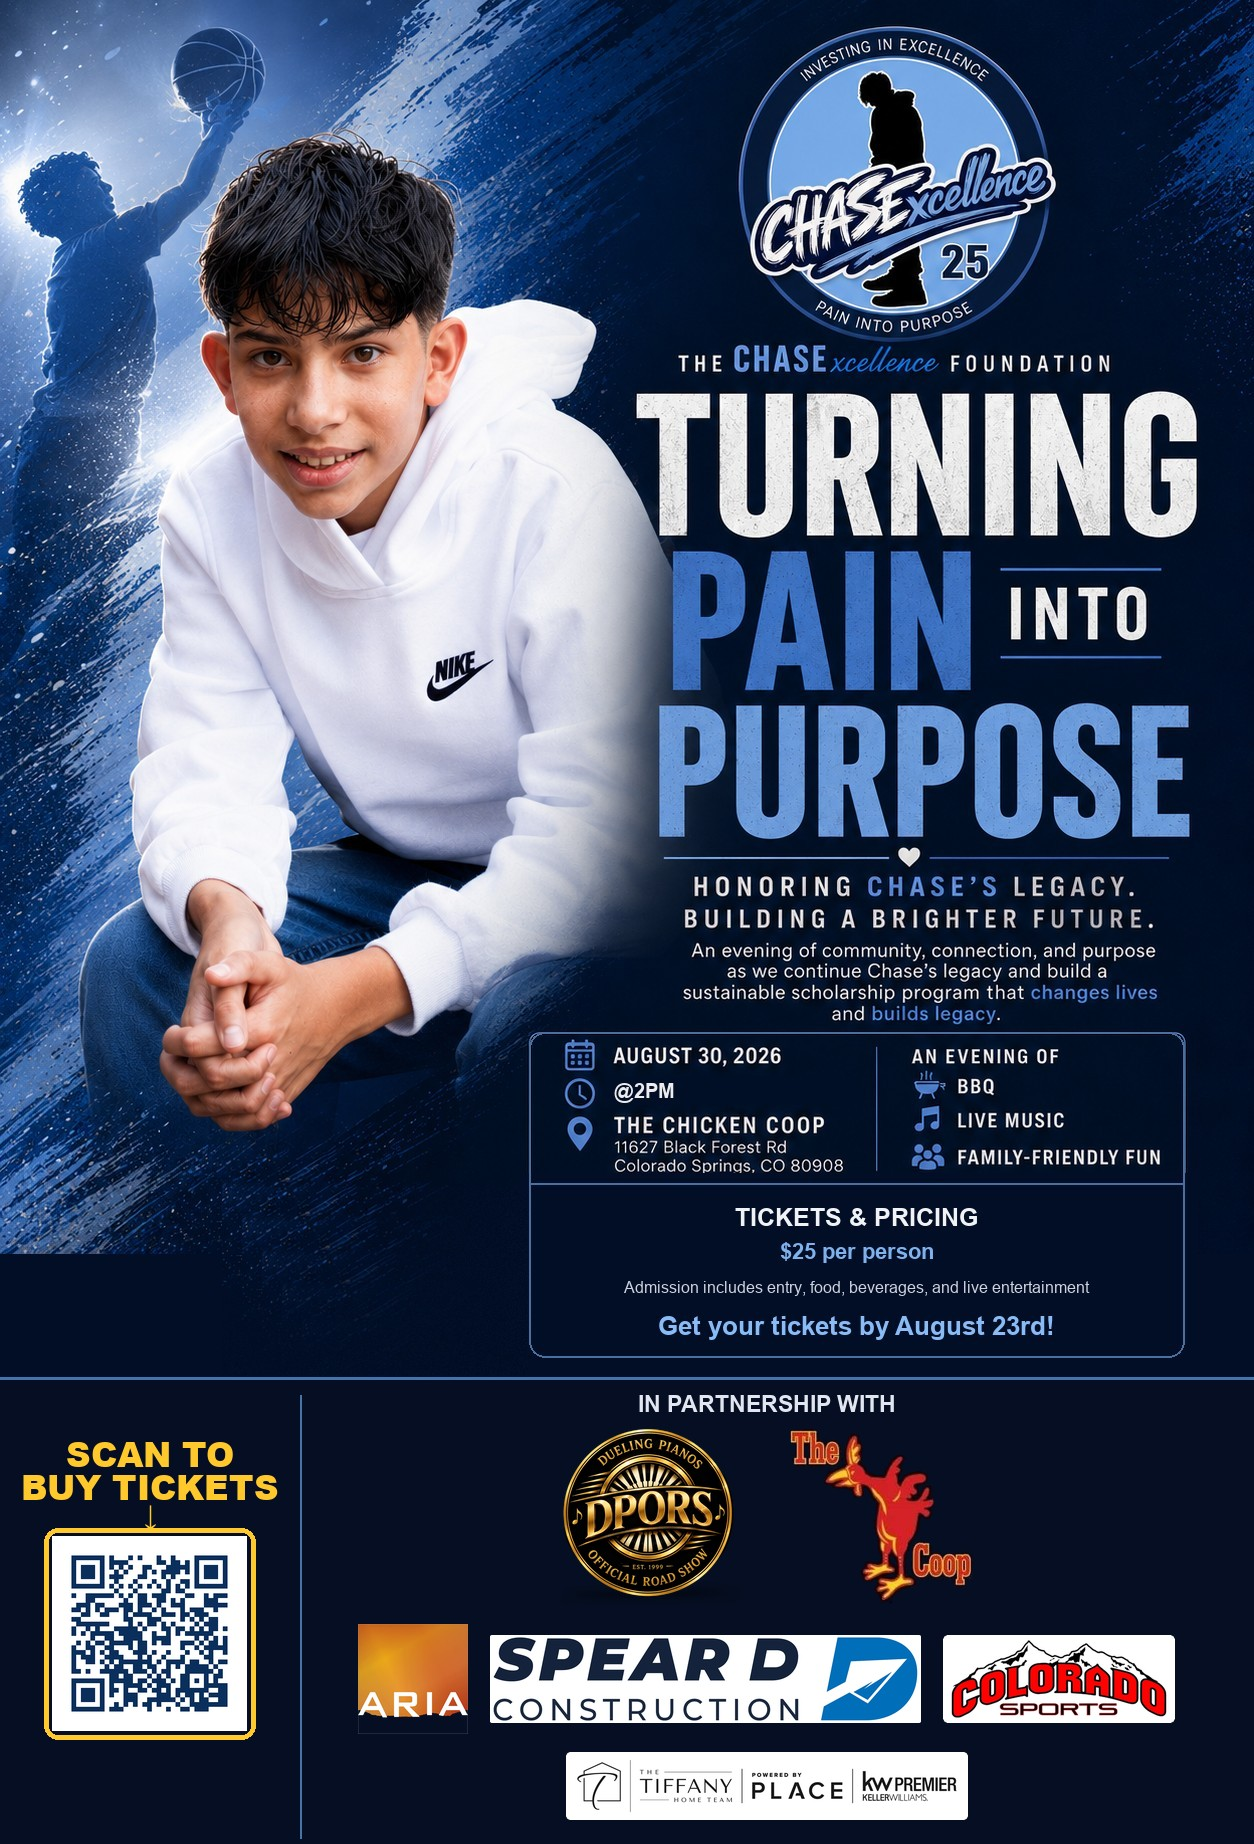
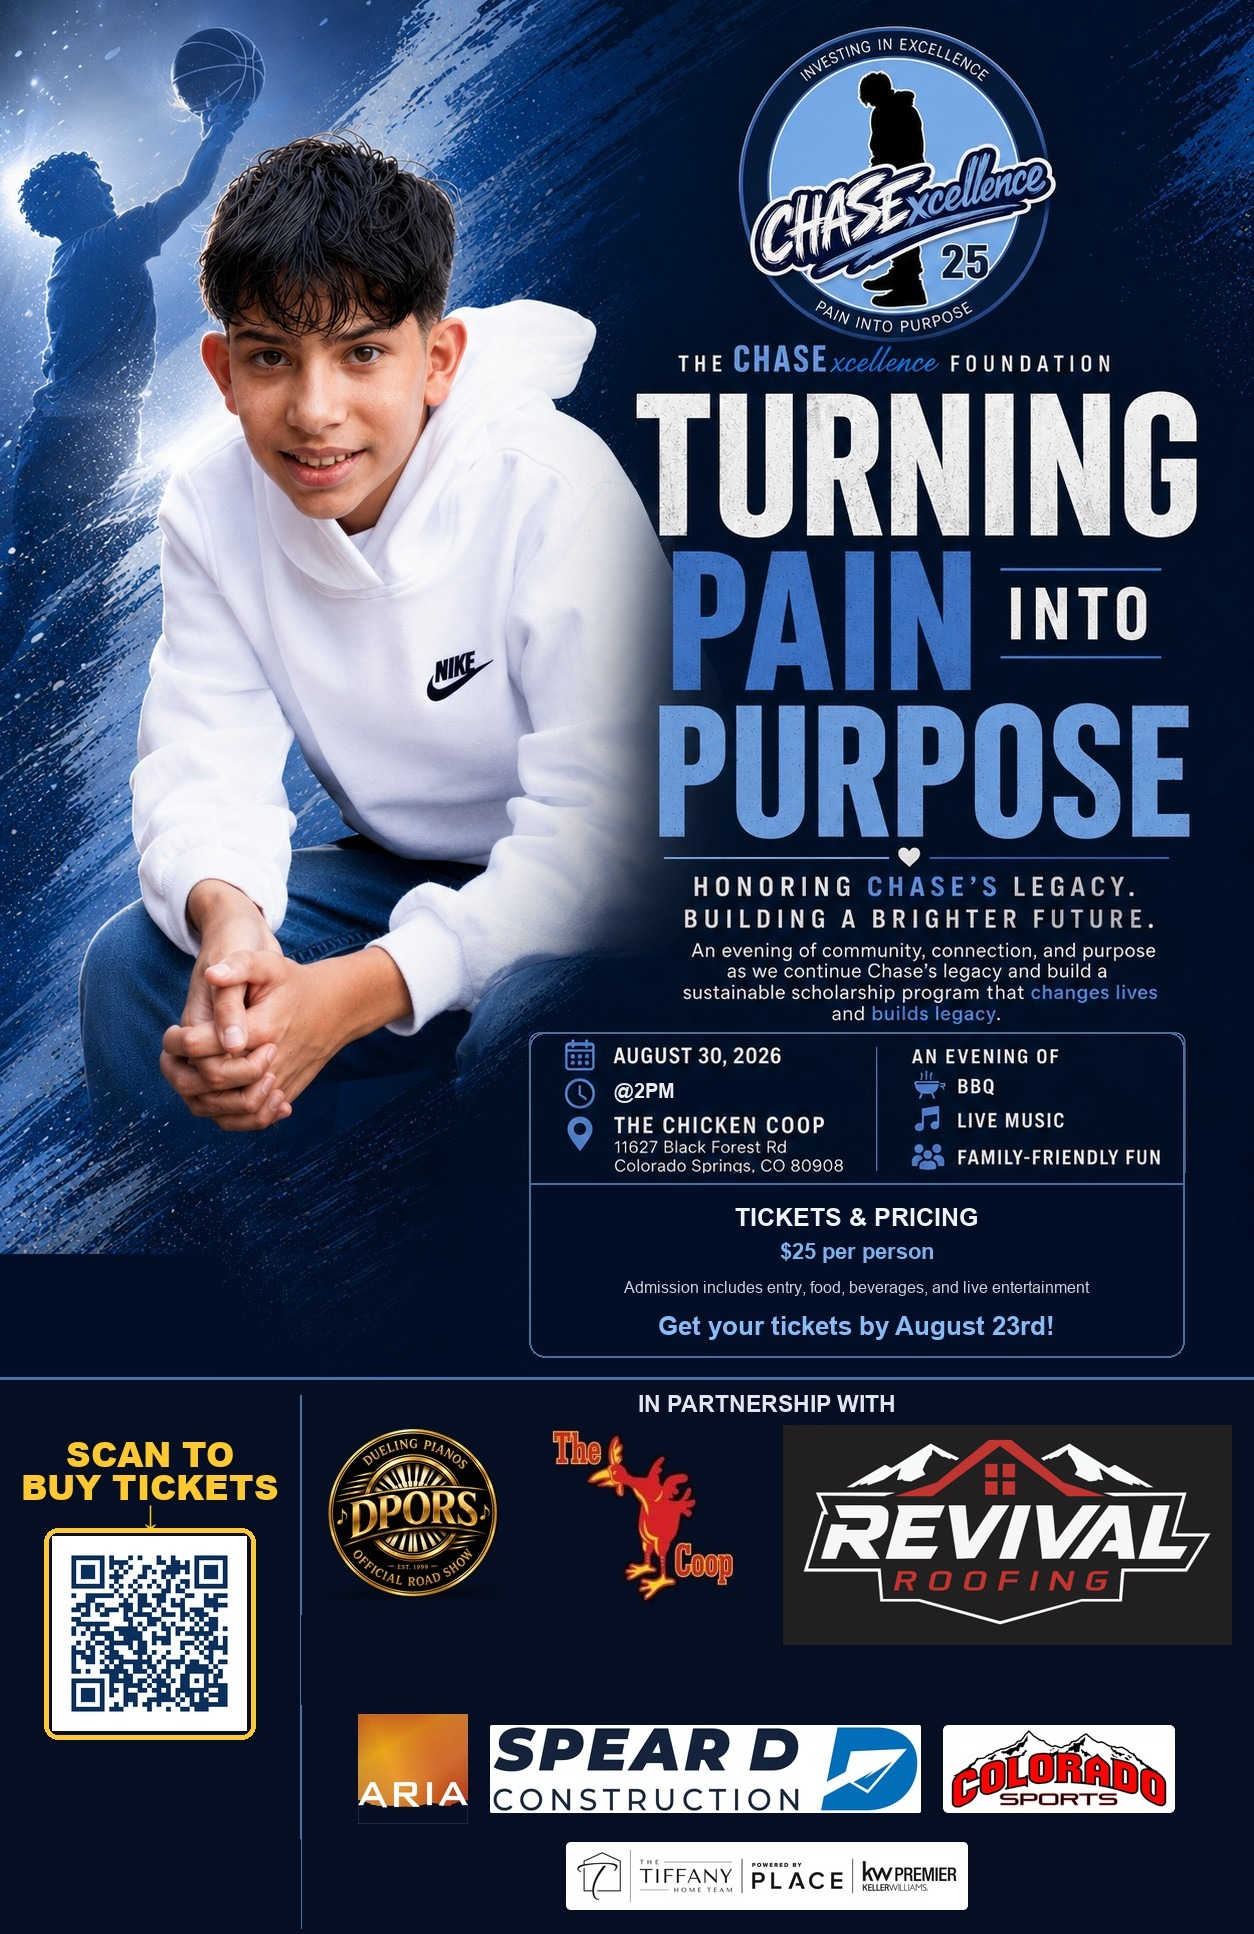
Feature Revival Roofing as lead sponsor on site and flyer
Website: Revival gets a double-width, taller sponsor card so it reads
as the headline sponsor.

Flyer: moved to the top logo row beside DPORS and The Chicken Coop,
sized notably larger than either; canvas extended 90px for headroom.
Only the right-hand logo column is shifted, keeping the left column's
QR code intact.

Also cropped the 'MAIN LOGO' label baked into the corner of the
source PDF Revival supplied.

diff --git a/index.html b/index.html
@@ -690,7 +690,7 @@
         <a href="https://www.tiffanyhometeam.com/" target="_blank" rel="noopener" class="sponsor-card sponsor-card-tiffany">
           <img loading="lazy" src="images/sponsor-tiffany-home.png" alt="The Tiffany Home Team - Powered by PLACE Keller Williams" />
         </a>
-        <a href="https://www.revivalroofingco.com/" target="_blank" rel="noopener" class="sponsor-card">
+        <a href="https://www.revivalroofingco.com/" target="_blank" rel="noopener" class="sponsor-card sponsor-card-revival">
           <img loading="lazy" src="images/sponsor-revival-roofing.png" alt="Revival Roofing" />
         </a>
       </div>

diff --git a/style.css b/style.css
@@ -815,6 +815,11 @@ p:last-child { margin-bottom: 0; }
 .sponsor-card:hover { transform: translateY(-4px); }
 .sponsor-card-dpors { padding: 0.35rem; }
 .sponsor-card-tiffany { padding: 0.4rem; }
+.sponsor-card-revival {
+  padding: 0.5rem;
+  height: 210px;
+  grid-column: span 2;
+}
 .sponsor-card img {
   max-width: 100%;
   max-height: 100%;

diff --git a/CLAUDE.md b/CLAUDE.md
@@ -45,7 +45,7 @@ There are no lint, build, or test commands.
 - `apply.html` — a second real page: the on-site scholarship application (see Content Notes).
 - `style.css` — all styling for both pages. Sections alternate backgrounds via `section-dark` / `section-green-light` classes. **CSS variable names in `:root` are legacy and no longer describe their colors** — `--green-dark` and `--gold` etc. actually hold the Carolina Blue palette (`--green-dark: #4B9CD3`, `--navy: #0A2F5C`, `--gold: #FFFFFF`). Use the existing variables rather than hardcoding colors, but don't be misled by their names.
 - `script.js` — mobile nav toggle, scroll-spy nav highlighting, Tier-1 cinematic motion (scroll reveals, count-up stats, gallery photo fade-in-on-load), and the gallery lightbox. All motion respects `prefers-reduced-motion`.
-- `images/` — all photos, logos, and QR codes, committed directly to the repo. Notable ones: `logo-badge.png` (transparent CHASExcellence badge, used in nav/footer/apply/favicons), `hoop-dreams-logo.png` (partner logo), `venmo-qr.png` / `cashapp-qr.png` (donation QR codes — regenerate with Python `qrcode` if the handle changes), `nominate-qr.png` (encodes `apply.html`), `tourney-flyer-2025.jpg` / `tourney-flyer-2026.jpg` (tournament flyers shown on the Events cards), `tourney-2025-trophy.jpg` (cover photo for the past tournament's Facebook slideshow card), `kickoff-flyer-2026.jpg` (Kickoff event flyer — "Turning Pain Into Purpose" — shown on the Kickoff card image slot; the original ribbon ("Change Lives. | Build Legacy." + heart) was removed and the area repainted by propagating the surrounding diagonal brush strokes along their own angle (fading down/right into the navy); the event-info box was extended downward with a "TICKETS & PRICING" section (a flat $25 per person, an admission-includes line, and an enlarged "Get your tickets by August 23rd!" deadline line in accent blue) below the original date/location + "AN EVENING OF" content, separated by an internal divider where the box's old bottom border used to be; the flyer body is cropped tight below the box so there's no dead space before the footer; footer band has the Kickoff Givebutter QR on the left of a divider, with a bold gold "SCAN TO / BUY TICKETS" callout (Arial Black) and a downward arrow above it plus a gold glow border around the QR card itself — this is deliberately the most eye-catching element in the footer since the flyer is meant to be posted to social media, where a static image can't have a real clickable link, so the QR + callout is the actual call-to-action — and on the right, two rows of partner logos — DPORS + The Chicken Coop bigger on top, Aria Architecture/Spear D Construction/Colorado Sports smaller below, plus a third row with just the Tiffany Home Team logo, smaller still and centered (Aria sized up a bit relative to Spear D/Colorado Sports; Spear D Construction replaced TLC Plumbing as a sponsor — its logo is dark navy text on transparent, which disappeared against the dark flyer background, so it sits on its own white rounded-rect card; Colorado Sports and Tiffany Home Team got the same white-card treatment for visual consistency/legibility) — the QR and all five logos are baked into this JPG as a flat image, not live `<img>`s, so it must be regenerated and re-exported if the Kickoff Givebutter URL or any partner logo changes), `givebutter-general-qr.jpg` (general donation QR, Donate section), `new-35.jpg` through `new-43.jpg` (memorial/tribute photos added to the gallery — memorial cross, roadside vigil, family gatherings, the "CHASE EXCEL..." tribute banner — as opposed to the `new-01` through `new-34` range and other named `gallery-*.jpg` files, which are all candid photos of Chase's life; `new-38.jpg` is a professional family portrait bearing a "Jessica Bingham Creations" watermark, used here as a personal/family photo — reuse elsewhere would need the photographer's permission), `givebutter-icon.png` (Givebutter's official mascot icon, used on both Givebutter buttons). `kickoff-givebutter-qr.png` is the source QR for the Kickoff campaign (`givebutter.com/CHASExcellence-Kickoff-Fundraiser`) — no longer a standalone `<img>` on the page, but still referenced when regenerating the flyer footer above.
+- `images/` — all photos, logos, and QR codes, committed directly to the repo. Notable ones: `logo-badge.png` (transparent CHASExcellence badge, used in nav/footer/apply/favicons), `hoop-dreams-logo.png` (partner logo), `venmo-qr.png` / `cashapp-qr.png` (donation QR codes — regenerate with Python `qrcode` if the handle changes), `nominate-qr.png` (encodes `apply.html`), `tourney-flyer-2025.jpg` / `tourney-flyer-2026.jpg` (tournament flyers shown on the Events cards), `tourney-2025-trophy.jpg` (cover photo for the past tournament's Facebook slideshow card), `kickoff-flyer-2026.jpg` (Kickoff event flyer — "Turning Pain Into Purpose" — shown on the Kickoff card image slot, **1254×1994px** (grew from ...×1844 in Aug 2026 to fit a new bottom row for Revival Roofing); the original ribbon ("Change Lives. | Build Legacy." + heart) was removed and the area repainted by propagating the surrounding diagonal brush strokes along their own angle (fading down/right into the navy); the event-info box was extended downward with a "TICKETS & PRICING" section (a flat $25 per person, an admission-includes line, and an enlarged "Get your tickets by August 23rd!" deadline line in accent blue) below the original date/location + "AN EVENING OF" content, separated by an internal divider where the box's old bottom border used to be; the flyer body is cropped tight below the box so there's no dead space before the footer; footer band has the Kickoff Givebutter QR on the left of a divider, with a bold gold "SCAN TO / BUY TICKETS" callout (Arial Black) and a downward arrow above it plus a gold glow border around the QR card itself — this is deliberately the most eye-catching element in the footer since the flyer is meant to be posted to social media, where a static image can't have a real clickable link, so the QR + callout is the actual call-to-action — and on the right, two rows of partner logos — DPORS + The Chicken Coop bigger on top, Aria Architecture/Spear D Construction/Colorado Sports smaller below, plus a third row with just the Tiffany Home Team logo, smaller still and centered (Aria sized up a bit relative to Spear D/Colorado Sports; Spear D Construction replaced TLC Plumbing as a sponsor — its logo is dark navy text on transparent, which disappeared against the dark flyer background, so it sits on its own white rounded-rect card; Colorado Sports and Tiffany Home Team got the same white-card treatment for visual consistency/legibility); **Revival Roofing is the largest sponsor and is deliberately given the most prominence**: it sits on the TOP logo row alongside DPORS + The Chicken Coop, sized noticeably larger than either (220px tall vs their ~178px), and the canvas was extended by 90px to give that row the headroom. Its logo ships on a solid near-black background so it sits directly on the navy flyer background rather than getting a white card, same treatment as DPORS/Chicken Coop. **When regenerating this flyer, shift ONLY the right-hand logo column vertically — never the full-width canvas.** The left column holds the QR + "SCAN TO BUY TICKETS" callout, which straddles the row-insertion point; a full-width shift slices the QR in half (this happened once and had to be redone). Split at the divider line, x=301. (The source PDF Revival supplied had a "MAIN LOGO" label baked into its top-left corner; this was cropped out before use anywhere, on the flyer or in the website sponsors section.) — the QR and all six logos are baked into this JPG as a flat image, not live `<img>`s, so it must be regenerated and re-exported if the Kickoff Givebutter URL or any partner logo changes), `givebutter-general-qr.jpg` (general donation QR, Donate section), `new-35.jpg` through `new-43.jpg` (memorial/tribute photos added to the gallery — memorial cross, roadside vigil, family gatherings, the "CHASE EXCEL..." tribute banner — as opposed to the `new-01` through `new-34` range and other named `gallery-*.jpg` files, which are all candid photos of Chase's life; `new-38.jpg` is a professional family portrait bearing a "Jessica Bingham Creations" watermark, used here as a personal/family photo — reuse elsewhere would need the photographer's permission), `givebutter-icon.png` (Givebutter's official mascot icon, used on both Givebutter buttons). `kickoff-givebutter-qr.png` is the source QR for the Kickoff campaign (`givebutter.com/CHASExcellence-Kickoff-Fundraiser`) — no longer a standalone `<img>` on the page, but still referenced when regenerating the flyer footer above.
 
 ## Design
 
@@ -66,6 +66,6 @@ There are no lint, build, or test commands.
 - Social links live in the footer's "Social Media" column: Facebook (`facebook.com/profile.php?id=61591746670881`) and Instagram (`@chasexcellence25_`).
 - Footer/Donate section also disclose 501(c)(3) status and EIN 42-1909009 for donor tax-deductibility.
 - Fonts (Fredoka for headings, Nunito for body) load from Google Fonts; everything else is self-contained.
-- **Sponsors section** (`#sponsors`, after Gallery): a `.sponsors-grid` of `.sponsor-card` logos using `grid-template-columns: repeat(auto-fit, minmax(160px, 1fr))`, so it wraps cleanly at any sponsor count without needing responsive breakpoint overrides. Logos sit directly on the section background (no white card box) — some source logo files carry their own solid-color background (e.g. `sponsor-chicken-coop.jpg`, `sponsor-aria-architecture.jpg`), which is intentional/expected, not a bug. Current sponsors: The Chicken Coop, DPORS, Spear D Construction, Aria Architecture, Colorado Sports, The Tiffany Home Team, Revival Roofing (`images/sponsor-*.jpg`/`.png`). `images/sponsor-tlc-plumbing.png` is an unused leftover from when TLC Plumbing was a sponsor, not deleted from the repo.
+- **Sponsors section** (`#sponsors`, after Gallery): a `.sponsors-grid` of `.sponsor-card` logos using `grid-template-columns: repeat(auto-fit, minmax(160px, 1fr))`, so it wraps cleanly at any sponsor count without needing responsive breakpoint overrides. Logos sit directly on the section background (no white card box) — some source logo files carry their own solid-color background (e.g. `sponsor-chicken-coop.jpg`, `sponsor-aria-architecture.jpg`), which is intentional/expected, not a bug. Current sponsors: The Chicken Coop, DPORS, Spear D Construction, Aria Architecture, Colorado Sports, The Tiffany Home Team, Revival Roofing (`images/sponsor-*.jpg`/`.png`). **Revival Roofing is the largest sponsor** and is intentionally the most prominent logo in the grid — `.sponsor-card-revival` gives it `grid-column: span 2` and a taller card (210px vs the default 160px). Per-sponsor size tweaks live in `.sponsor-card-<name>` classes (`-dpors`, `-tiffany`, `-revival`) that mostly just reduce card padding so a logo scales up inside the same box. `images/sponsor-tlc-plumbing.png` is an unused leftover from when TLC Plumbing was a sponsor, not deleted from the repo.
 - The Events section (`#events`) lists upcoming events newest-listed-first regardless of date order (currently: The CHASExcellence Foundation Kickoff, Aug 30, 2026, listed above the 3v3 Tournament, Aug 22, 2026 — the Kickoff is intentionally featured first). Event cards without a flyer/visual image use `.event-content-single` (single-column) instead of the default two-column `.event-content` grid.
 - The Kickoff card's flyer thumbnail has a "Buy Tickets →" button (`.event-flyer-buy-link`) below the "Tap to view the flyer" caption, linking straight to the Givebutter campaign. An earlier version floated this as an absolutely-positioned pill overlaid on top of the flyer image, but at the thumbnail's small render size (200px wide on desktop) there was no spot big enough to fit a legible button without covering either the QR code or a sponsor logo baked into the graphic — a normal in-flow link below the image avoids that entirely.
